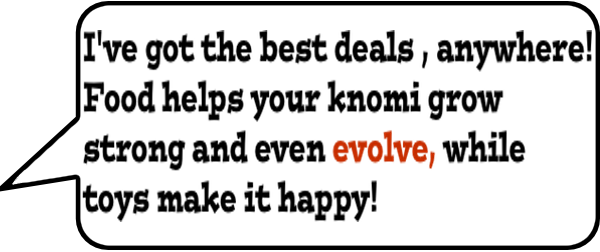
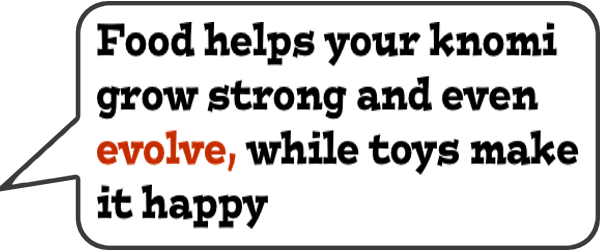
vendor explanation

diff --git a/www/modals/shop-modal.html b/www/modals/shop-modal.html
@@ -6,8 +6,10 @@
     <div class="shop">
       <div id="vendorImage"></div>
         <div id="messages">
-          <button ng-click="closeModal()" class="button button-icon ion-arrow-down-b"></button>
+          <button ng-click="closeModal()" class="button button-icon ion-close-circled"></button>
+          <div id="speechBubble"><img src="./img/shopexplanation.png"></div>
         </div>
+
 
       <div id="milk" ng-class="{notAvailable: points.$value < 1}">
         <img src="./img/milk.png" ng-click="points.$value < 1 || feed(1); closeModal()" />

diff --git a/www/css/shopModal.css b/www/css/shopModal.css
@@ -1,3 +1,17 @@
+#speechBubble {
+
+}
+
+#speechBubble img {
+  width: 230px;
+  margin-left: 50px;
+  margin-top: -10px;
+}
+
+#vendorImage button {
+  margin-left: 50px;
+}
+
 #shopModal {
   background-repeat: no-repeat;
   background-image: url("../img/parchment-background.png");
@@ -17,6 +31,7 @@
   text-align: center;
   height: 90px;
   margin-top: -10px;
+  width: 320px;
 }
 
 #messages button {
